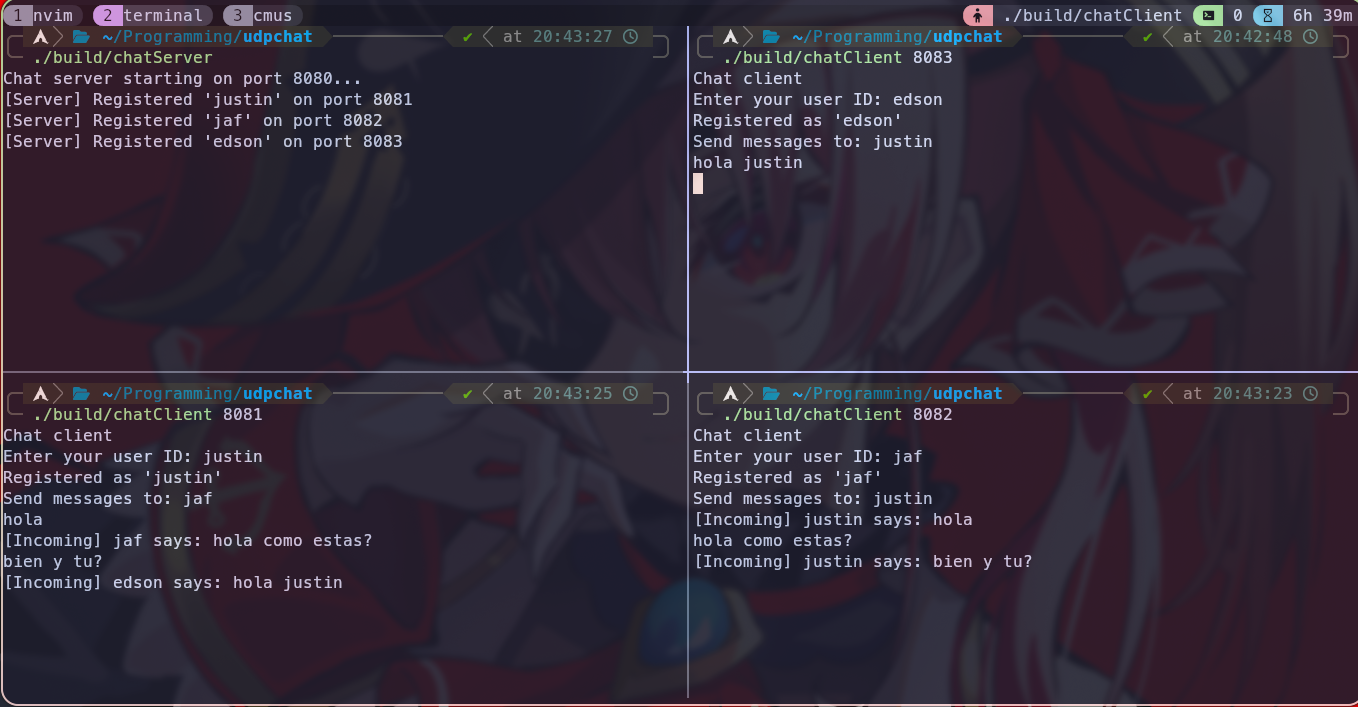
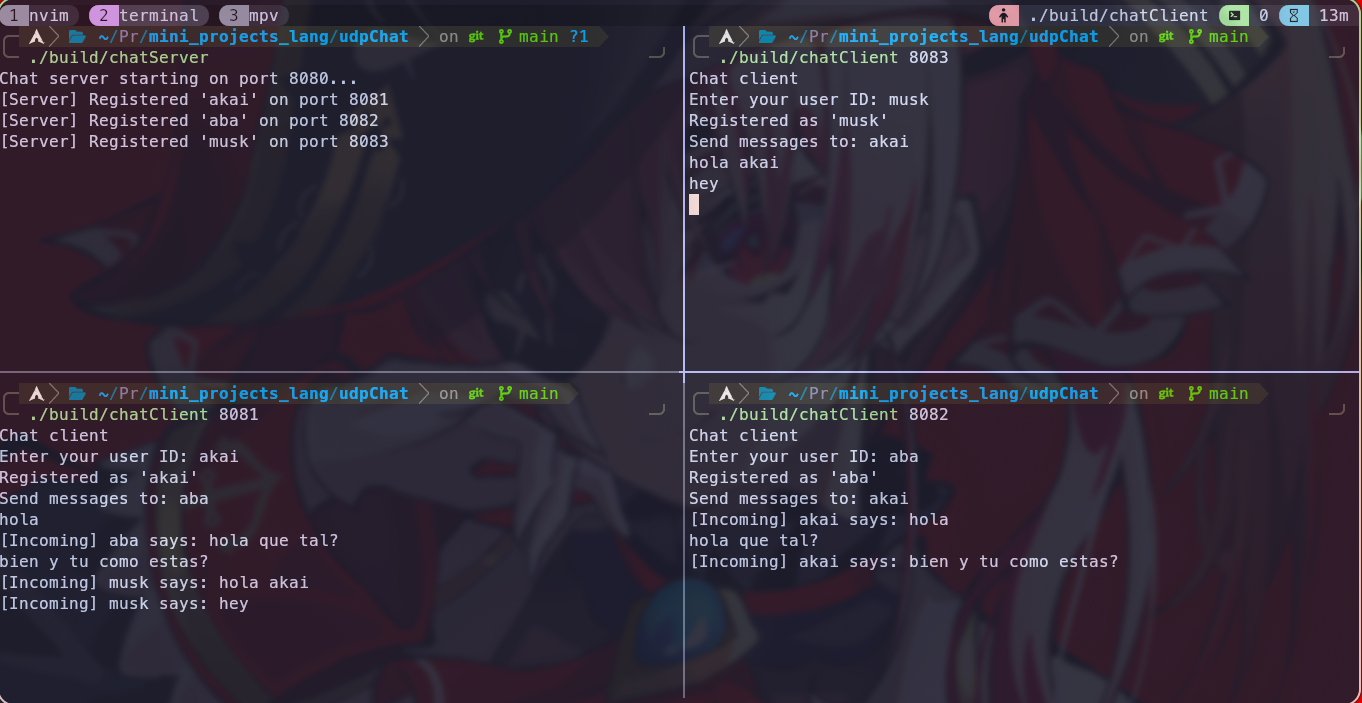
udpchat doc

Changed region(s): [[0.0, 0.0, 1.0, 1.0]]

diff --git a/udpChat/README.md b/udpChat/README.md
@@ -10,10 +10,10 @@ it is still usefull to know its limitation and characteristics.
 This projects has two version. 
 
 ## 1. P2P
-In the P2P (pear-to-pear) version each client talk to other client directry
+In the P2P (peer-to-peer) version each client talk to other client directry
 without an intermediate server. This is better for data privacy and 
 also is faster since server do not act as a bottleneck in massive communication.
-Also it reduces change of data corruption while server process a request,
+Also it reduces chance of data corruption while server process a request,
 which will be frequent due to UDP nature.
 
 The main drawback, in this version, is that user must to know somehow IP address